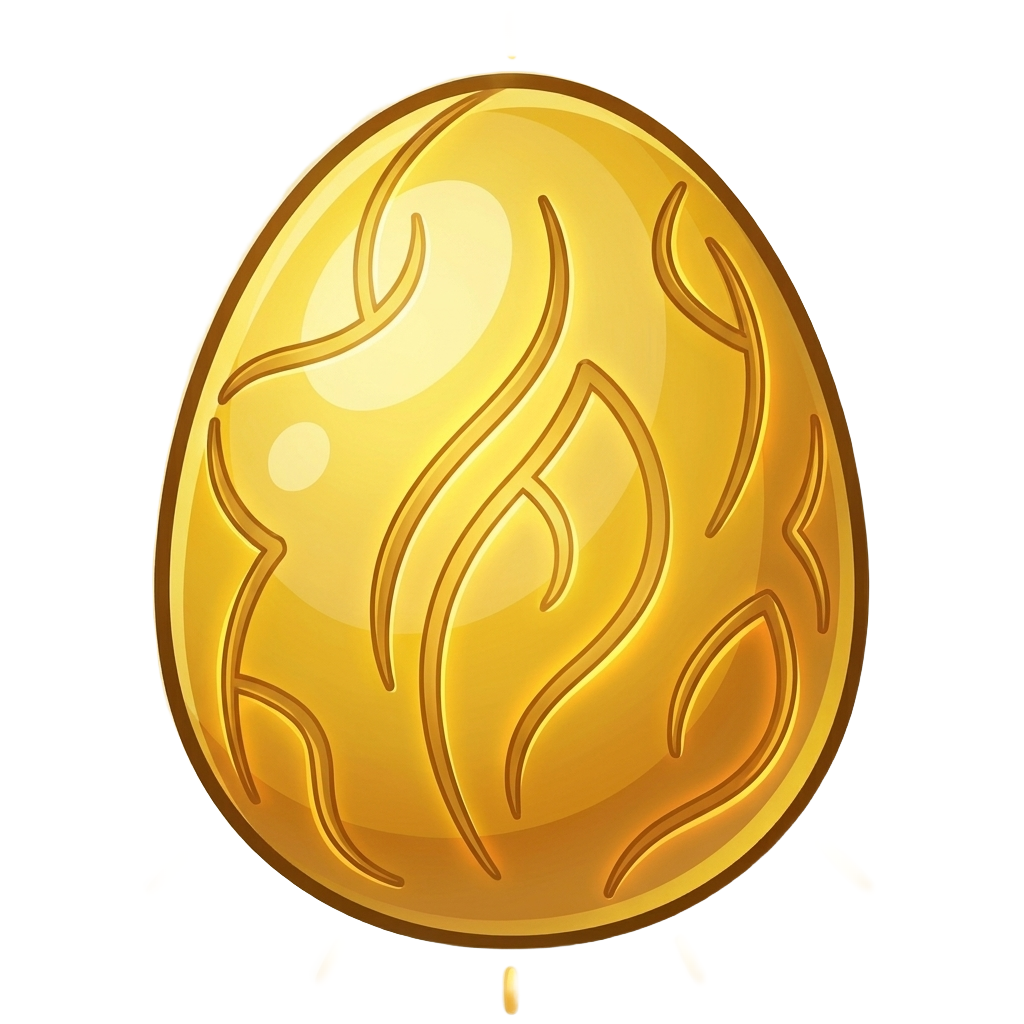
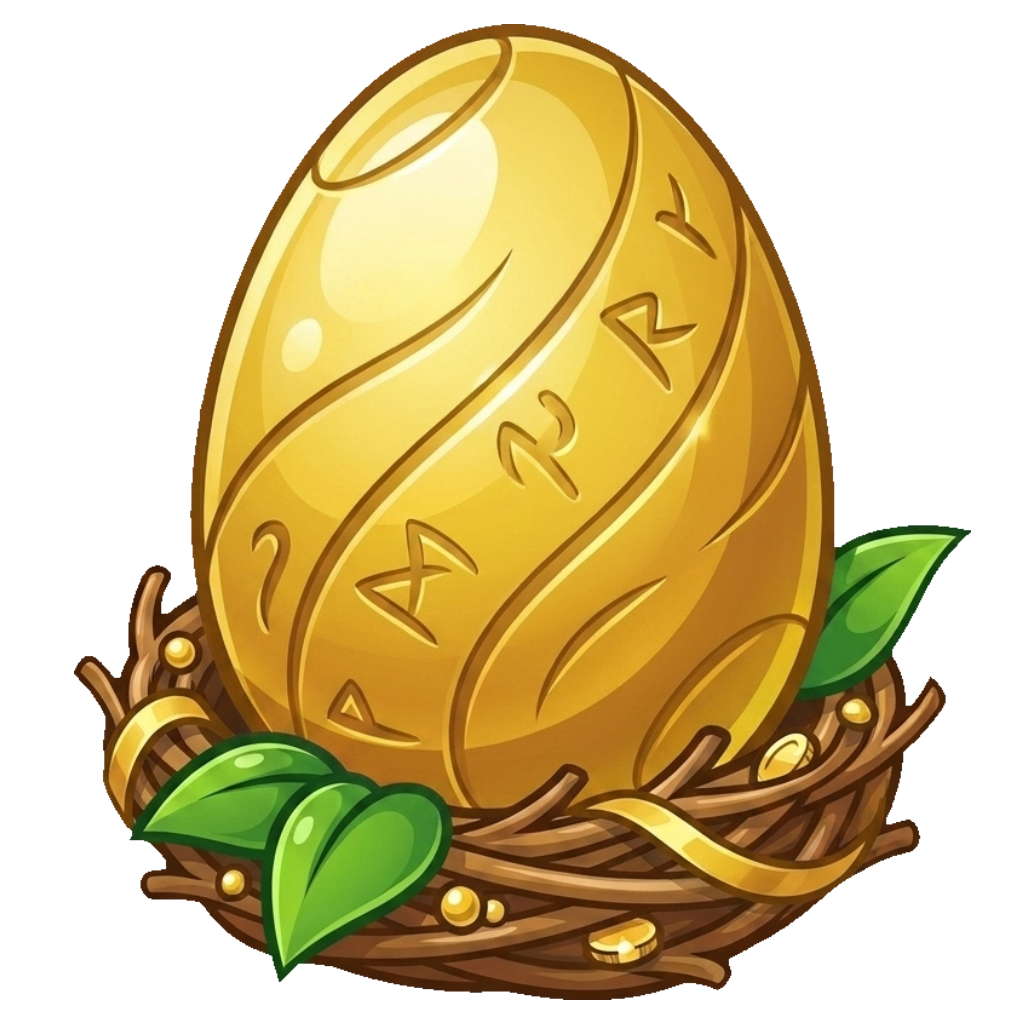
Redesign egg rarity art as egg-in-nest set
Each egg now sits in a woven twig nest with per-rarity dressing, replacing
the plain floating eggs. All emissive detail is confined to the egg/nest
silhouette so background matting leaves no glow halo. Finalized with a
defringe pass (luminance peel to the dark outline, exterior light-residue
flood, edge shave) and centered on the egg's own axis.

diff --git a/docs/assets/prompts.md b/docs/assets/prompts.md
@@ -39,10 +39,11 @@ Site ids: `coastal_dig`, `amber_ridge`, `frozen_cliffs`, `volcano_core`.
 
 ## Egg rarities
 
-The six egg icons in `assets/images/eggs/` share one silhouette so they read as
-a set; rarity is expressed only through shell color, pattern, and escalating
-effects. Shell colors track the embed accent colors in
-`src/modules/hatchery/embeds.ts`.
+The six egg icons in `assets/images/eggs/` share one silhouette — an upright egg
+sitting in a low woven twig-and-leaf nest — so they read as a set; rarity is
+expressed only through shell design and subtle per-rarity nest dressing. Shell
+colors track the embed accent colors in `src/modules/hatchery/embeds.ts` (mythic
+is the exception: obsidian-and-lava to match the `volcano_core` site art).
 
 | File | Size | Use |
 |---|---|---|
@@ -51,51 +52,86 @@ effects. Shell colors track the embed accent colors in
 `<rarity>` is one of `common`, `uncommon`, `rare`, `epic`, `legendary`,
 `mythic`.
 
-**Workflow (reference chain):** generate the common egg first on a plain flat
-light-gray studio background, then generate the other five as image-edits of the
-common egg (Nano Banana Pro, `medias` role `image`) so the silhouette stays
-identical. Run each result through `remove_background`, then center on a
-1024×1024 transparent canvas. Any glow/rays/embers that fall outside the shell
-survive as floating islands on transparent — this matches the old floating egg
-look on the Discord embed background.
+**Hard no-glow rule:** no glow, rays, embers, sparkles, or light effects may
+extend beyond the egg/nest silhouette — off-silhouette glow survives background
+removal as floating islands or a light halo on transparency. Emissive detail is
+allowed only ON surfaces (crystal facets, engraved runes, lava cracks). Every
+prompt carries this rule verbatim.
+
+**Workflow (reference chain):** generate the common egg-in-nest first on a plain
+flat light-gray studio background, framed so the egg and nest fill almost the
+whole square with a small even margin. Then generate the other five as
+image-edits of the approved common (Nano Banana Pro, `medias` role `image`) so
+the egg silhouette and nest base stay identical — all five edit from the common
+directly, never from each other.
+
+**Post-processing** (each of the six): `remove_background`, then a defringe +
+fit pass onto a 1024×1024 transparent canvas. The studio background is light
+gray — nearly the tone of the white/gold shells — so the cutout keeps a light
+rim the egg's dark outline should have been. The pass: (1) keep only the largest
+connected region; (2) luminance-peel light boundary pixels inward until the edge
+reaches each egg's dark cartoon outline; (3) flood inward from the border through
+transparent + desaturated-light pixels to strip any near-white matte residue
+clinging to the outer nest edge (saturated art blocks the flood; interior
+highlights are walled off by the dark outlines); (4) shave 2px; (5) fit and
+center on the **egg's own axis** (top ~45% of the silhouette), not the whole
+bbox, so asymmetric nest dressing doesn't push the egg off-center. Verify: all
+border pixels transparent, exactly one connected region.
 
 **Common (reference egg):**
 
-> A single large cartoon dinosaur egg standing upright, perfectly centered:
-> smooth gray-white eggshell with scattered small brown speckles, one soft
-> glossy highlight on the upper left of the shell. Plain flat light-gray studio
-> background, no scenery. Centered composition, large readable shape filling
-> most of the frame. Glossy cartoon mobile-game art style, bold dark outlines,
-> vibrant saturated colors, strong glossy highlights, clean cel shading with
-> smooth gradients, polished game-asset look. No text, no characters, no UI
-> elements.
+> A single large cartoon dinosaur egg standing upright, sitting in a low woven
+> nest of brown twigs with two or three green leaves tucked in, perfectly
+> centered. The egg and its nest together fill almost the entire square frame,
+> edge to edge, with only a small even margin of background around them. Smooth
+> gray-white eggshell with scattered small brown speckles, one soft glossy
+> highlight on the upper left of the shell. The nest is a low ring around the
+> base, covering only the very bottom of the egg. Plain flat light-gray studio
+> background, no scenery, no ground shadow. No glow, rays, embers, sparkles, or
+> light effects extending beyond the egg or the nest; glowing details may appear
+> only on the surfaces themselves. Glossy cartoon mobile-game art style, bold
+> dark outlines, vibrant saturated colors, strong glossy highlights, clean cel
+> shading with smooth gradients, polished game-asset look. No text, no
+> characters, no UI elements.
 
 **Reskin edits** (each generated with the common egg attached as the `image`
 reference). Prompt frame:
 
-> Keep the exact same cartoon dinosaur egg: same shape, same size, same
-> position, same outline, same framing, same plain flat light-gray studio
-> background. Change only the shell design: {RESKIN}. Glossy cartoon
-> mobile-game art style, bold dark outlines, vibrant saturated colors, strong
-> glossy highlights, clean cel shading with smooth gradients, polished
-> game-asset look. No text, no characters, no UI elements.
+> Keep the exact same cartoon dinosaur egg and the exact same woven twig nest:
+> same shape, same size, same position, same outline, same framing, same plain
+> flat light-gray studio background. Change only the egg shell design and add
+> small nest decorations: {SHELL}. {NEST}. No glow, rays, embers, sparkles, or
+> light effects extending beyond the egg or the nest; glowing details may appear
+> only on the surfaces themselves. Glossy cartoon mobile-game art style, bold
+> dark outlines, vibrant saturated colors, strong glossy highlights, clean cel
+> shading with smooth gradients, polished game-asset look. No text, no
+> characters, no UI elements.
 
-`{RESKIN}` per rarity:
+`{SHELL}` / `{NEST}` per rarity:
 
-- **uncommon:** moss-green eggshell (around #2ecc71) decorated with a simple
-  pattern of small darker-green leaf shapes, subtle glossy highlight
-- **rare:** ocean-blue eggshell (around #3498db) with a wavy water-sheen pattern
-  wrapping the shell and a few small water droplets on the surface, glossy
-  wet-look highlights
-- **epic:** violet eggshell (around #9b59b6) with angular crystal facets
-  embedded in the surface and a soft purple glow emanating from the facets, kept
-  tight to the shell
-- **legendary:** polished golden eggshell (around #f1c40f) engraved with elegant
-  curved rune lines, radiating short golden rays of light kept close to the shell
-- **mythic:** jet-black obsidian eggshell covered in jagged glowing orange lava
-  cracks, faint orange embers rising just above the shell, dramatic inner glow
-  through the cracks, kept tight to the shell (matches the `volcano_core` site
-  obsidian-and-lava look)
+- **uncommon** — SHELL: moss-green eggshell (around #2ecc71) decorated with a
+  simple pattern of small darker-green leaf shapes, subtle glossy highlight.
+  NEST: weave a few extra fresh green leaves and tiny white flowers into the
+  twigs.
+- **rare** — SHELL: ocean-blue eggshell (around #3498db) with a wavy water-sheen
+  pattern wrapping the shell and a few small water droplets on the surface,
+  glossy wet-look highlights. NEST: tuck a few smooth blue pebbles and small
+  seashells between the twigs.
+- **epic** — SHELL: violet eggshell (around #9b59b6) with angular crystal facets
+  embedded in the surface, the facets catching bright glossy highlights on the
+  shell surface (add "no glowing aura or halo around the egg; the outline
+  against the background must be crisp" — the model tends to add a purple glow).
+  NEST: place a few small violet amethyst crystal shards among the twigs.
+- **legendary** — SHELL: polished golden eggshell (around #f1c40f) engraved with
+  elegant curved rune lines, the engraving gleaming on the shell surface only,
+  no rays of light. NEST: weave a thin gold ribbon and a few tiny gold trinkets
+  through the twigs.
+- **mythic** — SHELL: jet-black obsidian eggshell covered in jagged glowing
+  orange lava cracks, dramatic inner glow visible only through the cracks, no
+  floating embers (matches the `volcano_core` site obsidian-and-lava look).
+  NEST: charred dark twigs with a few ember-orange glowing tips. Do not add
+  pebbles or loose objects — the model repeatedly scattered them on the ground
+  outside the nest, where they become floating islands after matting.
 
 ## Coastal Dig (`coastal_dig`)
 
